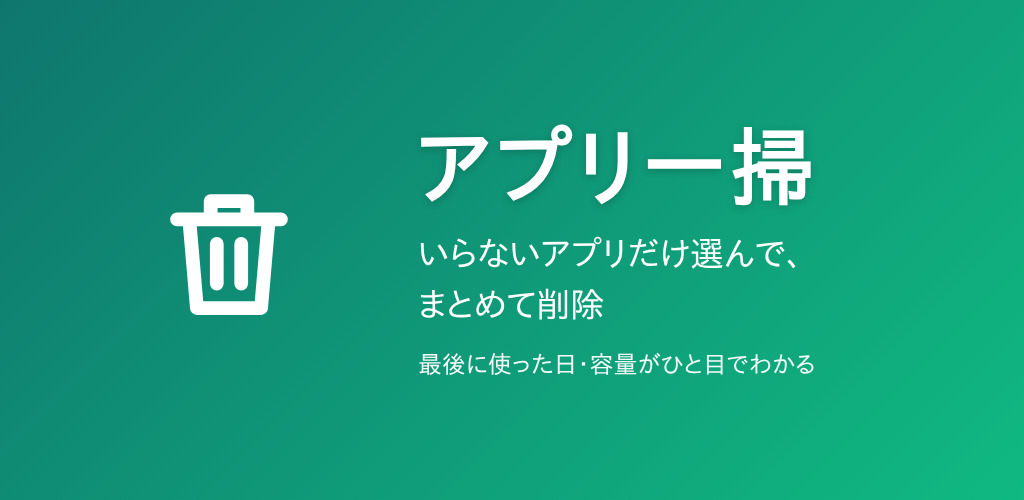
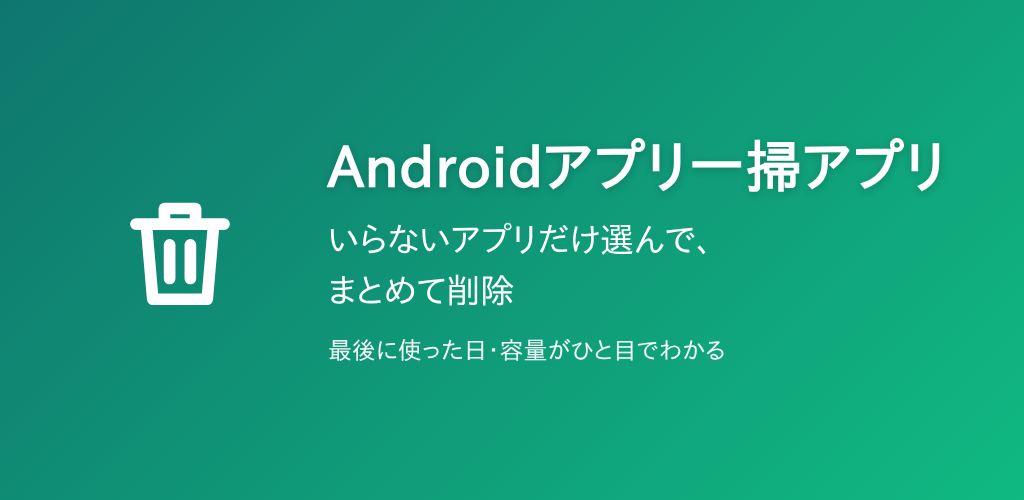
アプリ一掃: 正式な名前を「Androidアプリ一掃アプリ」に（公式サイト・申請ガイド・ストア画像）。ホーム画面の表示名は「アプリ一掃」のまま
Claude-Session: https://claude.ai/code/session_01WQewJuRn2mGB1EbdpVRuwB

Changed region(s): [[0.3125, 0.45, 0.8125, 0.75], [0.3125, 0.24, 0.9375, 0.42], [0.125, 0.39, 0.2812, 0.63]]

diff --git a/sweep-site/public/index.html b/sweep-site/public/index.html
@@ -3,10 +3,10 @@
 <head>
 <meta charset="utf-8">
 <meta name="viewport" content="width=device-width, initial-scale=1">
-<title>アプリ一掃 — いらないアプリだけ選んで、まとめて削除</title>
+<title>Androidアプリ一掃アプリ — いらないアプリだけ選んで、まとめて削除</title>
 <meta name="description" content="使っていないアプリがひと目でわかる Android アプリ。いらないアプリだけチェックを外して、まとめて削除。確認つきで、誤って消しにくい作りです。">
 <link rel="icon" href="/icon.png">
-<meta property="og:title" content="アプリ一掃">
+<meta property="og:title" content="Androidアプリ一掃アプリ">
 <meta property="og:image" content="https://applications.sucks/icon.png">
 <meta property="og:description" content="いらないアプリだけ選んで、まとめて削除。">
 <style>
@@ -18,7 +18,7 @@
   body { margin: 0; background: var(--bg); color: var(--ink); font: 16px/1.8 system-ui, -apple-system, "Hiragino Sans", "Noto Sans JP", sans-serif; }
   .hero { background: linear-gradient(135deg, var(--hero1), var(--hero2)); color: #fff; text-align: center; padding: 56px 16px 64px; }
   .hero img { width: 96px; height: 96px; border-radius: 22px; box-shadow: 0 8px 24px rgba(0,0,0,.2); }
-  .hero h1 { font-size: clamp(2rem, 8vw, 3.2rem); margin: 16px 0 0; letter-spacing: .08em; }
+  .hero h1 { font-size: clamp(1.4rem, 6.2vw, 3rem); margin: 16px 0 0; letter-spacing: .04em; }
   .hero .lead { font-size: clamp(1.1rem, 4vw, 1.4rem); margin: 8px 0 0; }
   .hero p { text-wrap: balance; word-break: keep-all; overflow-wrap: anywhere; }
   .badges { display: flex; flex-wrap: wrap; justify-content: center; gap: 8px; margin-top: 20px; }
@@ -46,7 +46,7 @@
 <body>
 <header class="hero">
   <img src="/icon.png" alt="">
-  <h1>アプリ一掃</h1>
+  <h1>Androidアプリ一掃アプリ</h1>
   <p class="lead">いらないアプリだけ選んで、<wbr>まとめて削除。</p>
   <p>気づけば増えているアプリを、<wbr>安心して整理できます。</p>
   <div class="badges"><span class="badge">Android 9 以上</span><span class="badge">無料・広告なし</span><span class="badge">Google Play で近日公開</span></div>
@@ -78,7 +78,7 @@
 
   <h2>プライバシーについて</h2>
   <div class="note">
-    アプリ一掃は、入っているアプリの一覧・最後に使った日・容量を、この端末の中で画面に表示するためだけに読み取ります。外部のサーバーへ送信することはなく、インターネットにも接続しません。広告や利用状況の分析ツールも使っていません。
+    Androidアプリ一掃アプリは、入っているアプリの一覧・最後に使った日・容量を、この端末の中で画面に表示するためだけに読み取ります。外部のサーバーへ送信することはなく、インターネットにも接続しません。広告や利用状況の分析ツールも使っていません。
     詳しくは <a href="/privacy">プライバシーポリシー</a> をご覧ください。
   </div>
 

diff --git a/sweep-android/store/render-graphics.js b/sweep-android/store/render-graphics.js
@@ -9,10 +9,10 @@ const bg = 'linear-gradient(135deg, #0F766E, #10B981)';
 const icon = `<html><body style="margin:0"><div style="width:512px;height:512px;background:${bg};display:flex;align-items:center;justify-content:center">
   ${bin(512, '21 22 66 66')}</div></body></html>`;
 const feature = `<html><body style="margin:0;font-family:'IPAPGothic','IPAGothic',sans-serif">
-<div style="width:1024px;height:500px;background:${bg};display:flex;align-items:center;gap:24px;padding:0 64px;box-sizing:border-box;color:#fff">
-  <div style="flex:none">${bin(330)}</div>
+<div style="width:1024px;height:500px;background:${bg};display:flex;align-items:center;gap:8px;padding:0 40px;box-sizing:border-box;color:#fff">
+  <div style="flex:none">${bin(280)}</div>
   <div>
-    <div style="font-size:84px;font-weight:bold;letter-spacing:4px;text-shadow:0 2px 8px rgba(0,0,0,.2)">アプリ一掃</div>
+    <div style="font-size:56px;font-weight:bold;letter-spacing:1px;white-space:nowrap;text-shadow:0 2px 8px rgba(0,0,0,.2)">Androidアプリ一掃アプリ</div>
     <div style="font-size:34px;margin-top:20px;line-height:1.5">いらないアプリだけ選んで、<br>まとめて削除</div>
     <div style="font-size:24px;margin-top:22px;opacity:.95">最後に使った日・容量がひと目でわかる</div>
   </div>

diff --git a/sweep-site/public/privacy.html b/sweep-site/public/privacy.html
@@ -3,7 +3,7 @@
 <head>
 <meta charset="utf-8">
 <meta name="viewport" content="width=device-width, initial-scale=1">
-<title>プライバシーポリシー — アプリ一掃</title>
+<title>プライバシーポリシー — Androidアプリ一掃アプリ</title>
 <link rel="icon" href="/icon.png">
 <style>
   :root { --bg: #F3F6F4; --card: #FFFFFF; --ink: #16201D; --muted: #5F6B67; --line: #D5DDD9; --accent: #0F766E; }
@@ -28,7 +28,7 @@
 <main>
   <h1>プライバシーポリシー</h1>
   <p class="meta">制定日：2026年11月20日</p>
-  <p>中央会計株式会社（以下「運営者」）は、Android アプリ「アプリ一掃」（以下「本アプリ」）における利用者の情報の取り扱いについて、以下のとおり定めます。</p>
+  <p>中央会計株式会社（以下「運営者」）は、Android アプリ「Androidアプリ一掃アプリ」（以下「本アプリ」）における利用者の情報の取り扱いについて、以下のとおり定めます。</p>
 
   <section>
     <h2>1. 本アプリが端末内で扱う情報</h2>

diff --git a/sweep-site/public/404.html b/sweep-site/public/404.html
@@ -3,7 +3,7 @@
 <head>
 <meta charset="utf-8">
 <meta name="viewport" content="width=device-width, initial-scale=1">
-<title>ページが見つかりません — アプリ一掃</title>
+<title>ページが見つかりません — Androidアプリ一掃アプリ</title>
 <link rel="icon" href="/icon.png">
 <style>
   :root { --bg: #F3F6F4; --ink: #16201D; --accent: #0F766E; }
@@ -14,6 +14,6 @@
 </head>
 <body>
   <h1>ページが見つかりません</h1>
-  <p><a href="/">アプリ一掃のトップへ</a></p>
+  <p><a href="/">Androidアプリ一掃アプリのトップへ</a></p>
 </body>
 </html>

diff --git a/sweep/privacy.html b/sweep/privacy.html
@@ -4,7 +4,7 @@
 <meta charset="utf-8">
 <meta http-equiv="refresh" content="0; url=https://applications.sucks/privacy">
 <link rel="canonical" href="https://applications.sucks/privacy">
-<title>プライバシーポリシー — アプリ一掃</title>
+<title>プライバシーポリシー — Androidアプリ一掃アプリ</title>
 </head>
 <body>
 <p>プライバシーポリシーは <a href="https://applications.sucks/privacy">https://applications.sucks/privacy</a> に移動しました。</p>

diff --git a/README.md b/README.md
@@ -16,7 +16,7 @@ AiLink などが Health Connect に書き込んだ体重・体脂肪率を、ア
 
 ---
 
-# アプリ一掃（Androidアプリ）
+# Androidアプリ一掃アプリ
 
 いらなくなったアプリだけチェックを外して、まとめて削除するアプリです。ソースは `sweep-android/` にあります。
 
